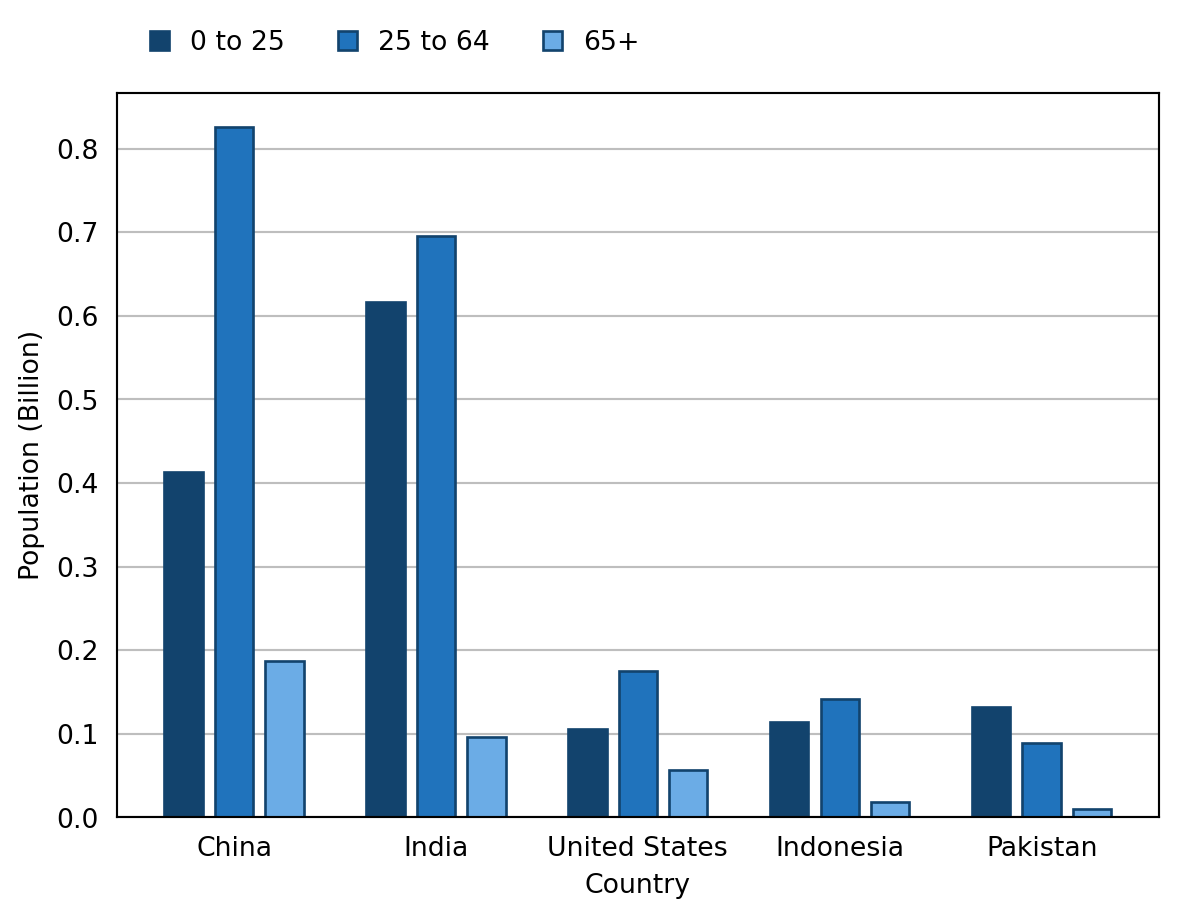
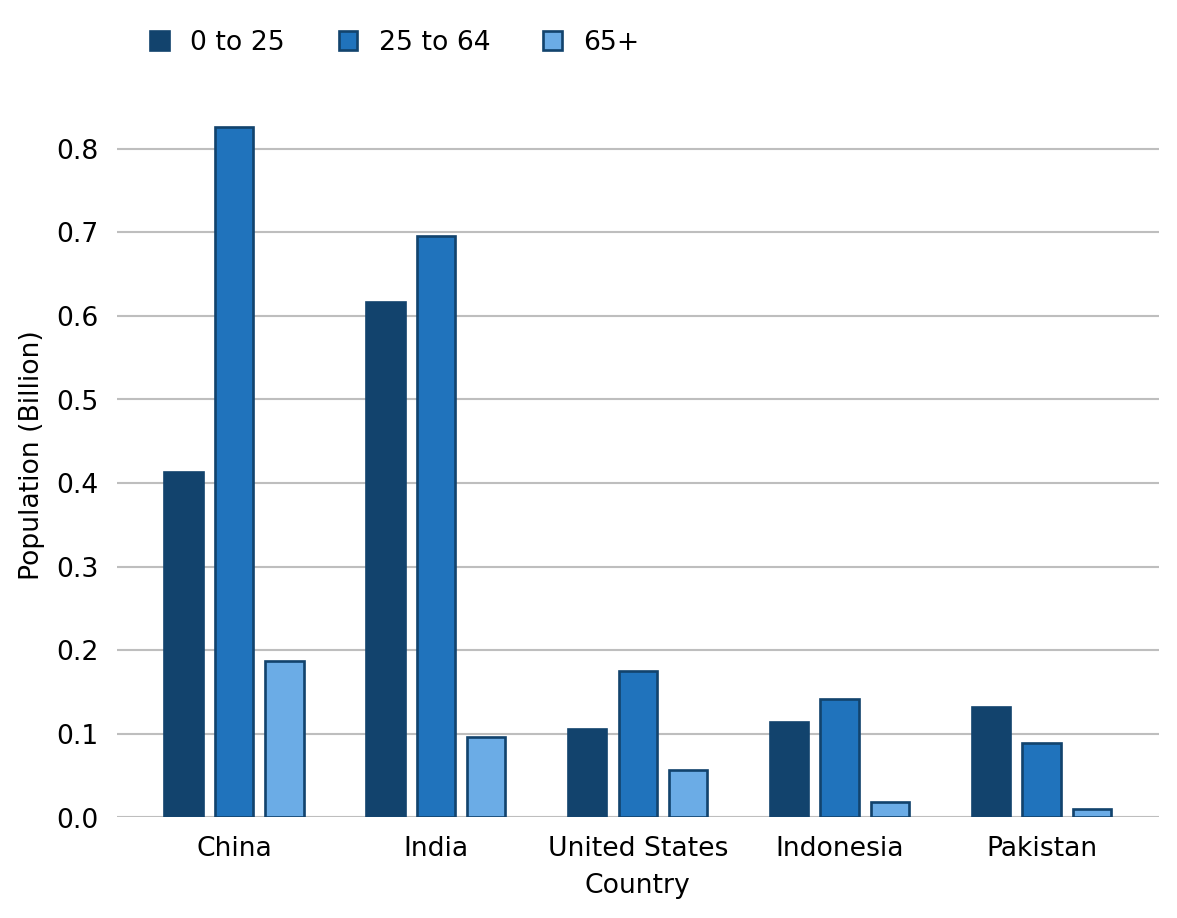
change warning, remove graph borders

diff --git a/docs/index.html b/docs/index.html
@@ -90,13 +90,33 @@
     <script src="//cdnjs.cloudflare.com/ajax/libs/html5shiv/3.7.3/html5shiv-printshiv.min.js"></script>
   <![endif]-->
 </head>
-<body class="fullcontent">
+<body>
 <div id="quarto-content" class="page-columns page-rows-contents page-layout-article">
-
+<div id="quarto-margin-sidebar" class="sidebar margin-sidebar">
+  <nav id="TOC" role="doc-toc">
+<h2 id="toc-title">Table of contents</h2>
+<ul>
+<li><a href="#this-guidance-is-in-draft-and-remains-subject-to-review-and-approval." class="nav-link active" data-scroll-target="#this-guidance-is-in-draft-and-remains-subject-to-review-and-approval.">This guidance is in draft and remains subject to review and approval.</a></li>
+<li><a href="#requirements" class="nav-link" data-scroll-target="#requirements">Requirements</a><a name="requirements" class="nav-link" data-scroll-target="undefined"></a></li>
+<li><a href="#installing-af_colours" class="nav-link" data-scroll-target="#installing-af_colours">Installing af_colours</a><a name="installingafcolours" class="nav-link" data-scroll-target="undefined"></a></li>
+<li><a href="#how-to-obtain-colours" class="nav-link" data-scroll-target="#how-to-obtain-colours">How to obtain colours</a><a name="howtoobtain" class="nav-link" data-scroll-target="undefined"></a></li>
+<li><a href="#basic-examples" class="nav-link" data-scroll-target="#basic-examples">Basic Examples</a></li>
+<li><a href="#application" class="nav-link" data-scroll-target="#application">Application</a><a name="application" class="nav-link" data-scroll-target="undefined"></a>
+<ul class="collapse">
+<li><a href="#duo" class="nav-link" data-scroll-target="#duo">Duo</a></li>
+<li><a href="#focus" class="nav-link" data-scroll-target="#focus">Focus</a></li>
+<li><a href="#sequential" class="nav-link" data-scroll-target="#sequential">Sequential</a></li>
+<li><a href="#categorical" class="nav-link" data-scroll-target="#categorical">Categorical</a></li>
+</ul></li>
+<li><a href="#maintenance" class="nav-link" data-scroll-target="#maintenance">Maintenance</a><a name="maintenance" class="nav-link" data-scroll-target="undefined"></a></li>
+</ul>
+</nav>
+</div>
 <main class="content" id="quarto-document-content">
 <header id="title-block-header" class="quarto-title-block default">
 
 <div class="quarto-title"><h1 class="title display-7">af_colours</h1></div></header>
+
 <style>
 table, th, td {
   border-bottom: 1px solid grey;
@@ -105,16 +125,9 @@ table, th, td {
 }
 </style>
 <p><br></p>
-<section id="this-guidance-is-in-draft-and-remains-subject-to-review-and-approval." class="level1">
-<h1>This guidance is in draft and remains subject to review and approval.</h1>
+<section id="this-guidance-is-in-draft-and-remains-subject-to-review-and-approval." class="level2">
+<h2 class="anchored" data-anchor-id="this-guidance-is-in-draft-and-remains-subject-to-review-and-approval.">This guidance is in draft and remains subject to review and approval.</h2>
 <p><br></p>
-<section id="table-of-contents" class="level2">
-<h2 class="anchored" data-anchor-id="table-of-contents">Table of Contents</h2>
-<p><a href="#requirements">Requirements</a></p>
-<p><a href="#installingafcolours">Installing af_colours</a></p>
-<p><a href="#howtoobtain">How to obtain the colours</a></p>
-<p><a href="#application">Application</a></p>
-<p><a href="#maintenance">Maintenance</a></p>
 </section>
 <section id="requirements" class="level2">
 <h2 class="anchored" data-anchor-id="requirements">Requirements<a name="requirements"></a></h2>
@@ -144,7 +157,7 @@ table, th, td {
 </div>
 <p>The af_colours function takes three arguments: palette, colour_format, and number_of_colours.</p>
 <ul>
-<li><p>palette is a required parameter, chosen by the user based on the <a href="https://analysisfunction.civilservice.gov.uk/policy-store/codes-for-accessible-colours/#section-5">Analysis Function colour guidance</a>. It takes one of four possible string values corresponding to the options:</p>
+<li><p>palette is a required parameter, chosen by the user based on the <a href="https://analysisfunction.civilservice.gov.uk/policy-store/codes-for-accessible-colours/">Analysis Function colour guidance</a>. It takes one of four possible string values corresponding to the options:</p>
 <ul>
 <li>“duo”<br>
 </li>
@@ -177,7 +190,7 @@ table, th, td {
 <div class="cell" data-execution_count="4">
 <div class="sourceCode" id="cb5"><pre class="sourceCode python cell-code code-with-copy"><code class="sourceCode python"><span id="cb5-1"><a href="#cb5-1" aria-hidden="true" tabindex="-1"></a>af_colours(<span class="st">"categorical"</span>, <span class="st">"rgb"</span>, <span class="dv">5</span>)</span></code><button title="Copy to Clipboard" class="code-copy-button"><i class="bi"></i></button></pre></div>
 <div class="cell-output-stderr">
-<pre><code>UserWarning: Line charts using more than four colours may not meet accessibility standards.
+<pre><code>UserWarning: It is best practice to limit graphs to four categories where possible to avoid graphs becoming cluttered.
   af_colours("categorical", "rgb", 5)</code></pre>
 </div>
 <div class="cell-output-display" data-execution_count="13">
@@ -185,7 +198,7 @@ table, th, td {
 </div>
 </div>
 <p><br></p>
-<p>See also that a warning is given for colours lists greater than four to let the user know that accessibility problems can arise if the palette is not applied correctly.</p>
+<p>See also that a warning is given for colours lists greater than four to let the user know that for best practice, it is preferable to use a limit of four categories.</p>
 </section>
 <section id="application" class="level2">
 <h2 class="anchored" data-anchor-id="application">Application<a name="application"></a></h2>
@@ -481,14 +494,15 @@ Light blue
 <span id="cb10-24"><a href="#cb10-24" aria-hidden="true" tabindex="-1"></a>        width <span class="op">=</span> <span class="fl">0.19</span>, zorder <span class="op">=</span> <span class="dv">2</span>, edgecolor <span class="op">=</span> sequential[<span class="dv">0</span>],</span>
 <span id="cb10-25"><a href="#cb10-25" aria-hidden="true" tabindex="-1"></a>        label <span class="op">=</span> <span class="st">"65+"</span>, color <span class="op">=</span> sequential[<span class="dv">2</span>])</span>
 <span id="cb10-26"><a href="#cb10-26" aria-hidden="true" tabindex="-1"></a></span>
-<span id="cb10-27"><a href="#cb10-27" aria-hidden="true" tabindex="-1"></a>plt.grid(visible <span class="op">=</span> <span class="va">True</span>, which <span class="op">=</span> <span class="st">"both"</span>, axis <span class="op">=</span> <span class="st">"y"</span>, color <span class="op">=</span> <span class="st">"#BEBEBE"</span>)</span>
-<span id="cb10-28"><a href="#cb10-28" aria-hidden="true" tabindex="-1"></a>plt.xticks(x_spacing, top_five_age[<span class="st">"Country"</span>].values)</span>
-<span id="cb10-29"><a href="#cb10-29" aria-hidden="true" tabindex="-1"></a>plt.tick_params(color <span class="op">=</span> <span class="st">"white"</span>)</span>
-<span id="cb10-30"><a href="#cb10-30" aria-hidden="true" tabindex="-1"></a>ax.<span class="bu">set</span>(xlabel <span class="op">=</span> <span class="st">"Country"</span>, ylabel <span class="op">=</span> <span class="st">"Population (Billion)"</span>)</span>
-<span id="cb10-31"><a href="#cb10-31" aria-hidden="true" tabindex="-1"></a></span>
-<span id="cb10-32"><a href="#cb10-32" aria-hidden="true" tabindex="-1"></a>plt.legend(bbox_to_anchor <span class="op">=</span> (<span class="fl">0.025</span>, <span class="fl">0.62</span>, <span class="fl">0.5</span>, <span class="fl">0.5</span>), ncol <span class="op">=</span> <span class="dv">4</span>,</span>
-<span id="cb10-33"><a href="#cb10-33" aria-hidden="true" tabindex="-1"></a>            handlelength <span class="op">=</span> <span class="fl">0.7</span>, frameon <span class="op">=</span> <span class="va">False</span>)</span>
-<span id="cb10-34"><a href="#cb10-34" aria-hidden="true" tabindex="-1"></a>plt.show()</span></code><button title="Copy to Clipboard" class="code-copy-button"><i class="bi"></i></button></pre></div>
+<span id="cb10-27"><a href="#cb10-27" aria-hidden="true" tabindex="-1"></a>plt.box(<span class="va">False</span>)</span>
+<span id="cb10-28"><a href="#cb10-28" aria-hidden="true" tabindex="-1"></a>plt.grid(visible <span class="op">=</span> <span class="va">True</span>, which <span class="op">=</span> <span class="st">"both"</span>, axis <span class="op">=</span> <span class="st">"y"</span>, color <span class="op">=</span> <span class="st">"#BEBEBE"</span>)</span>
+<span id="cb10-29"><a href="#cb10-29" aria-hidden="true" tabindex="-1"></a>plt.xticks(x_spacing, top_five_age[<span class="st">"Country"</span>].values)</span>
+<span id="cb10-30"><a href="#cb10-30" aria-hidden="true" tabindex="-1"></a>plt.tick_params(color <span class="op">=</span> <span class="st">"white"</span>)</span>
+<span id="cb10-31"><a href="#cb10-31" aria-hidden="true" tabindex="-1"></a>ax.<span class="bu">set</span>(xlabel <span class="op">=</span> <span class="st">"Country"</span>, ylabel <span class="op">=</span> <span class="st">"Population (Billion)"</span>)</span>
+<span id="cb10-32"><a href="#cb10-32" aria-hidden="true" tabindex="-1"></a></span>
+<span id="cb10-33"><a href="#cb10-33" aria-hidden="true" tabindex="-1"></a>plt.legend(bbox_to_anchor <span class="op">=</span> (<span class="fl">0.025</span>, <span class="fl">0.62</span>, <span class="fl">0.5</span>, <span class="fl">0.5</span>), ncol <span class="op">=</span> <span class="dv">4</span>,</span>
+<span id="cb10-34"><a href="#cb10-34" aria-hidden="true" tabindex="-1"></a>            handlelength <span class="op">=</span> <span class="fl">0.7</span>, frameon <span class="op">=</span> <span class="va">False</span>)</span>
+<span id="cb10-35"><a href="#cb10-35" aria-hidden="true" tabindex="-1"></a>plt.show()</span></code><button title="Copy to Clipboard" class="code-copy-button"><i class="bi"></i></button></pre></div>
 </div>
 <p><br></p>
 </section>
@@ -595,7 +609,7 @@ Light purple
 <h4 class="anchored" data-anchor-id="figure-4-bar-chart-using-the-categorical-colour-palette">Figure 4: Bar chart using the Categorical colour palette</h4>
 <div class="cell" data-execution_count="11">
 <div class="cell-output-stderr">
-<pre><code>UserWarning: Line charts using more than four colours may not meet accessibility standards.
+<pre><code>UserWarning: It is best practice to limit graphs to four categories where possible to avoid graphs becoming cluttered.
   colours = af_colours("categorical", "hex", 6)</code></pre>
 </div>
 <div class="cell-output-display">
@@ -630,24 +644,25 @@ Light purple
 <span id="cb12-25"><a href="#cb12-25" aria-hidden="true" tabindex="-1"></a>            edgecolor <span class="op">=</span> <span class="st">"white"</span>,</span>
 <span id="cb12-26"><a href="#cb12-26" aria-hidden="true" tabindex="-1"></a>            palette <span class="op">=</span> categorical)</span>
 <span id="cb12-27"><a href="#cb12-27" aria-hidden="true" tabindex="-1"></a></span>
-<span id="cb12-28"><a href="#cb12-28" aria-hidden="true" tabindex="-1"></a>plt.yscale(<span class="st">"log"</span>)</span>
-<span id="cb12-29"><a href="#cb12-29" aria-hidden="true" tabindex="-1"></a>plt.grid(visible <span class="op">=</span> <span class="va">True</span>, which <span class="op">=</span> <span class="st">"both"</span>, axis <span class="op">=</span> <span class="st">"y"</span>, color <span class="op">=</span> <span class="st">"#BEBEBE"</span>)</span>
-<span id="cb12-30"><a href="#cb12-30" aria-hidden="true" tabindex="-1"></a>plt.legend(frameon <span class="op">=</span> <span class="va">False</span>, loc <span class="op">=</span> <span class="st">"upper left"</span>, ncol <span class="op">=</span> <span class="dv">3</span>,</span>
-<span id="cb12-31"><a href="#cb12-31" aria-hidden="true" tabindex="-1"></a>            handlelength <span class="op">=</span> <span class="fl">0.7</span>, bbox_to_anchor <span class="op">=</span> (<span class="dv">0</span>, <span class="fl">0.65</span>, <span class="fl">0.5</span>, <span class="fl">0.5</span>))</span>
-<span id="cb12-32"><a href="#cb12-32" aria-hidden="true" tabindex="-1"></a></span>
-<span id="cb12-33"><a href="#cb12-33" aria-hidden="true" tabindex="-1"></a>plt.show()</span></code><button title="Copy to Clipboard" class="code-copy-button"><i class="bi"></i></button></pre></div>
+<span id="cb12-28"><a href="#cb12-28" aria-hidden="true" tabindex="-1"></a>plt.box(<span class="va">False</span>)</span>
+<span id="cb12-29"><a href="#cb12-29" aria-hidden="true" tabindex="-1"></a>plt.yscale(<span class="st">"log"</span>)</span>
+<span id="cb12-30"><a href="#cb12-30" aria-hidden="true" tabindex="-1"></a>plt.grid(visible <span class="op">=</span> <span class="va">True</span>, which <span class="op">=</span> <span class="st">"both"</span>, axis <span class="op">=</span> <span class="st">"y"</span>, color <span class="op">=</span> <span class="st">"#BEBEBE"</span>)</span>
+<span id="cb12-31"><a href="#cb12-31" aria-hidden="true" tabindex="-1"></a>plt.legend(frameon <span class="op">=</span> <span class="va">False</span>, loc <span class="op">=</span> <span class="st">"upper left"</span>, ncol <span class="op">=</span> <span class="dv">3</span>,</span>
+<span id="cb12-32"><a href="#cb12-32" aria-hidden="true" tabindex="-1"></a>            handlelength <span class="op">=</span> <span class="fl">0.7</span>, bbox_to_anchor <span class="op">=</span> (<span class="dv">0</span>, <span class="fl">0.65</span>, <span class="fl">0.5</span>, <span class="fl">0.5</span>))</span>
+<span id="cb12-33"><a href="#cb12-33" aria-hidden="true" tabindex="-1"></a></span>
+<span id="cb12-34"><a href="#cb12-34" aria-hidden="true" tabindex="-1"></a>plt.show()</span></code><button title="Copy to Clipboard" class="code-copy-button"><i class="bi"></i></button></pre></div>
 </div>
 <p><br></p>
 </section>
-<section id="figure-5-pie-chart-using-the-sequential-colour-palette" class="level4">
-<h4 class="anchored" data-anchor-id="figure-5-pie-chart-using-the-sequential-colour-palette">Figure 5: Pie chart using the Sequential colour palette</h4>
+<section id="figure-5-pie-chart-using-the-categorical-colour-palette" class="level4">
+<h4 class="anchored" data-anchor-id="figure-5-pie-chart-using-the-categorical-colour-palette">Figure 5: Pie chart using the Categorical colour palette</h4>
 <div class="cell" data-execution_count="13">
 <div class="cell-output-stderr">
-<pre><code>UserWarning: Line charts using more than four colours may not meet accessibility standards.
+<pre><code>UserWarning: It is best practice to limit graphs to four categories where possible to avoid graphs becoming cluttered.
   colours = af_colours("categorical", "hex", 6)</code></pre>
 </div>
 <div class="cell-output-display">
-<p><img src="index_files\figure-html/cell-14-output-2.png" width="545" height="402"></p>
+<p><img src="index_files\figure-html/cell-14-output-2.png" width="544" height="402"></p>
 </div>
 </div>
 <div class="cell" data-execution_count="14">
@@ -693,7 +708,6 @@ Light purple
 <section id="maintenance" class="level2">
 <h2 class="anchored" data-anchor-id="maintenance">Maintenance<a name="maintenance"></a></h2>
 <p>The package includes a function hex_to_rgb for generating the rgb color codes. In the event the Analysis Function colour palettes change, only the hex codes need be updated.</p>
-</section>
 </section>
 </main>
 <!-- /main column -->

diff --git a/af_colours.py b/af_colours.py
@@ -55,8 +55,9 @@ def af_colours(palette: str,
                                                   number_of_colours)
     
     if len(chosen_colours_list) > 4:
-        warnings.warn("Line charts using more than four colours " +
-                      "may not meet accessibility standards.",
+        warnings.warn("It is best practice to limit graphs to four " +
+                      "categories where possible to avoid graphs " +
+                      "becoming cluttered.",
                       stacklevel = 2)
     return chosen_colours_list
 
